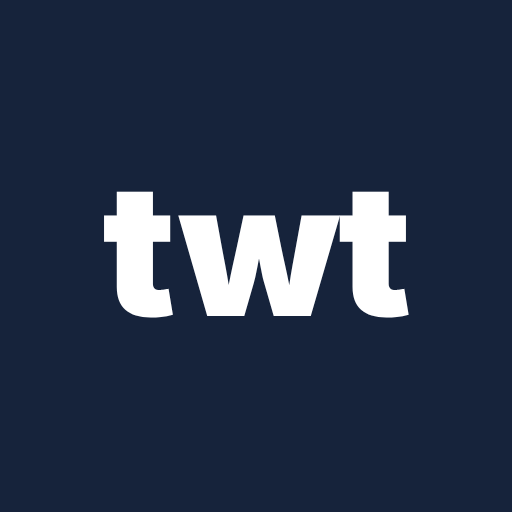
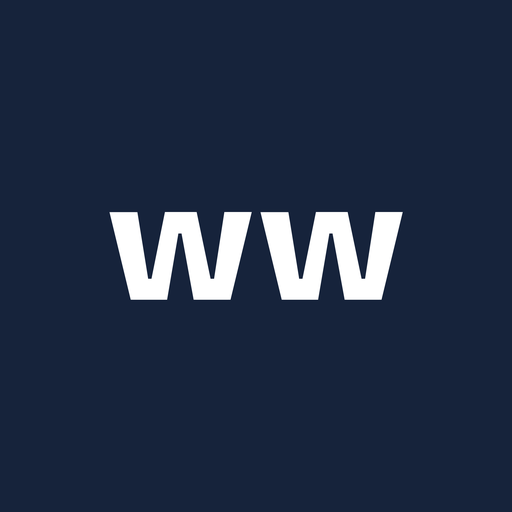
Add files via upload

Changed region(s): [[0.1875, 0.375, 0.8125, 0.625]]

diff --git a/build_site.py b/build_site.py
@@ -1,6 +1,6 @@
 #!/usr/bin/env python3
 """
-The Wednesday Times — site builder.
+Wednesday Wire — site builder.
 
 Renders articles.json + fixtures.json into index.html: a clean, fast,
 ad-free static page with light/dark mode, filters, search and the
@@ -34,9 +34,10 @@ HERE = Path(__file__).parent
 UK = ZoneInfo("Europe/London")
 URL_SAFE_CHARS = ":/?#[]@!$&'()*+,;=%~-._"   # everything else in a link gets %-encoded
 
-# Set this to your real URL once deployed (needed for social link previews
-# and the RSS feed) e.g. "https://yourusername.github.io/all-wednesday"
-SITE_URL = "https://thewednesdaytimes.uk"
+# The live address (used for social link previews, the RSS feed, the
+# sitemap and restore_state.py). thewednesdaytimes.uk 301-redirects here.
+SITE_URL = "https://wednesdaywire.co.uk"
+SITE_NAME = "Wednesday Wire"
 
 # Free, cookie-free analytics: https://www.goatcounter.com/ (no signup cost).
 # Sign up, then put your code here (the bit before ".goatcounter.com").
@@ -202,6 +203,7 @@ def write_atomic(path: Path, text: str) -> None:
 # =====================================================================
 
 FONTS_URL = ("https://fonts.googleapis.com/css2?family=Archivo:wdth,wght@62..125,400..900"
+             "&family=Bricolage+Grotesque:opsz,wght@12..96,800"
              "&family=IBM+Plex+Mono:wght@400;700&family=Newsreader:opsz,wght@6..72,600&display=swap")
 
 # Runs in <head> before first paint, so dark-mode readers never get a
@@ -223,6 +225,7 @@ BASE_CSS = """
     --sans: "Archivo", system-ui, -apple-system, "Segoe UI", sans-serif;
     --mono: "IBM Plex Mono", ui-monospace, SFMono-Regular, Menlo, Consolas, monospace;
     --serif: "Newsreader", Georgia, "Times New Roman", serif;
+    --brand: "Bricolage Grotesque", "Archivo", system-ui, -apple-system, "Segoe UI", sans-serif;
   }
   @media (prefers-color-scheme: dark) { :root:not([data-theme="light"]) {""" + THEME_TOKENS_DARK + """ } }
   [data-theme="dark"] {""" + THEME_TOKENS_DARK + """ }
@@ -246,11 +249,10 @@ PAGE_CSS = BASE_CSS + """
   .topbar-inner { max-width: 720px; margin: 0 auto; display: flex; align-items: center; gap: 4px; padding: 6px 8px 6px 16px; }
   .brand { flex: 1; min-width: 0; font-size: inherit; font-weight: inherit; }
   .brand a { display: flex; align-items: baseline; gap: 10px; text-decoration: none; min-width: 0; }
-  .brand-mark { font-family: var(--mono); font-weight: 700; font-size: 22px; letter-spacing: -.02em; line-height: 44px; }
-  .brand-name { font-family: var(--mono); font-size: 11.5px; letter-spacing: .04em; color: var(--muted); white-space: nowrap; overflow: hidden; text-overflow: ellipsis; min-width: 0; }
-  .iconbtn, .textbtn { height: 44px; background: none; border: none; color: var(--ink); cursor: pointer; border-radius: 8px; }
-  .iconbtn { width: 44px; display: flex; align-items: center; justify-content: center; }
-  .textbtn { padding: 0 10px; font-family: var(--mono); font-size: 13px; }
+  .brand-mark { font-family: var(--brand); font-weight: 800; font-size: 22px; letter-spacing: -.01em; line-height: 44px; white-space: nowrap; overflow: hidden; text-overflow: ellipsis; min-width: 0; }
+  .iconbtn { height: 44px; width: 44px; background: none; border: none; color: var(--ink); cursor: pointer; border-radius: 8px; display: flex; align-items: center; justify-content: center; }
+  /* theme button: moon in light mode (tap for dark), sun in dark mode (tap for light) */
+  [data-theme="dark"] .icon-moon, :root:not([data-theme="dark"]) .icon-sun { display: none; }
   .searchbar { max-width: 720px; margin: 0 auto; padding: 0 16px 10px; }
   #search { width: 100%; height: 44px; padding: 0 14px; font: 16px var(--sans); color: var(--ink); background: var(--bg); border: 1px solid var(--line); border-radius: 12px; }
   #search::placeholder { color: var(--muted); }
@@ -375,9 +377,10 @@ PAGE_JS = r"""
   // ---- theme (the starting theme is set in <head> before first paint) ----
   var toggle = $('theme-toggle');
   function themeLabel() {
-    var dark = root.getAttribute('data-theme') === 'dark';
-    toggle.textContent = dark ? 'light' : 'dark';
-    toggle.setAttribute('aria-label', dark ? 'Switch to light mode' : 'Switch to dark mode');
+    // the sun/moon icon swaps in CSS; only the accessible name changes here
+    var label = root.getAttribute('data-theme') === 'dark' ? 'Switch to light mode' : 'Switch to dark mode';
+    toggle.setAttribute('aria-label', label);
+    toggle.setAttribute('title', label);
   }
   themeLabel();
   toggle.addEventListener('click', function () {
@@ -647,6 +650,13 @@ SEARCH_ICON = ('<svg width="20" height="20" viewBox="0 0 24 24" fill="none" stro
                'stroke-width="2" stroke-linecap="round" stroke-linejoin="round" aria-hidden="true" focusable="false">'
                '<circle cx="11" cy="11" r="7"></circle><path d="m20 20-3.5-3.5"></path></svg>')
 
+_ICON_ATTRS = ('width="20" height="20" viewBox="0 0 24 24" fill="none" stroke="currentColor" '
+               'stroke-width="2" stroke-linecap="round" stroke-linejoin="round" aria-hidden="true" focusable="false"')
+THEME_ICONS = (f'<svg class="icon-moon" {_ICON_ATTRS}><path d="M21 12.8A9 9 0 1 1 11.2 3a7 7 0 0 0 9.8 9.8z"></path></svg>'
+               f'<svg class="icon-sun" {_ICON_ATTRS}><circle cx="12" cy="12" r="4"></circle>'
+               '<path d="M12 2v2M12 20v2M4.93 4.93l1.41 1.41M17.66 17.66l1.41 1.41M2 12h2M20 12h2'
+               'M4.93 19.07l1.41-1.41M17.66 6.34l1.41-1.41"></path></svg>')
+
 
 # =====================================================================
 # Rendering
@@ -811,8 +821,8 @@ def render_page(articles: list[dict], fixtures: dict, now: datetime) -> str:
     goat = (f'<script data-goatcounter="https://{esc(GOATCOUNTER_CODE)}.goatcounter.com/count" '
             f'async src="https://gc.zgo.at/count.js"></script>') if GOATCOUNTER_CODE else ""
     ld = js_str({
-        "@context": "https://schema.org", "@type": "WebSite", "name": "The Wednesday Times",
-        "alternateName": "TWT", "url": f"{SITE_URL}/",
+        "@context": "https://schema.org", "@type": "WebSite", "name": SITE_NAME,
+        "alternateName": "The Wednesday Times", "url": f"{SITE_URL}/",
         "description": "Sheffield Wednesday headlines from across the web in one clean, ad-free feed.",
         "inLanguage": "en-GB",
     })
@@ -837,21 +847,21 @@ def render_page(articles: list[dict], fixtures: dict, now: datetime) -> str:
 <meta charset="utf-8">
 <meta name="viewport" content="width=device-width, initial-scale=1">
 <meta http-equiv="Content-Security-Policy" content="{csp_attr(csp)}">
-<title>The Wednesday Times - Sheffield Wednesday news, no clutter</title>
+<title>{SITE_NAME} - Sheffield Wednesday news, no clutter</title>
 <meta name="description" content="Sheffield Wednesday headlines in one clean, ad-free feed. Links go straight to the original source.">
 <link rel="canonical" href="{SITE_URL}/">
-<meta property="og:site_name" content="The Wednesday Times">
-<meta property="og:title" content="The Wednesday Times - Owls headlines, no clutter">
+<meta property="og:site_name" content="{SITE_NAME}">
+<meta property="og:title" content="{SITE_NAME} - Owls headlines, no clutter">
 <meta property="og:description" content="Sheffield Wednesday news from multiple sources in one clean, ad-free feed. Free, updated every 15 minutes.">
 <meta property="og:type" content="website">
 <meta property="og:url" content="{SITE_URL}/">
 <meta property="og:image" content="{SITE_URL}/share.png">
-<meta property="og:image:alt" content="The Wednesday Times">
+<meta property="og:image:alt" content="{SITE_NAME}">
 <meta property="og:locale" content="en_GB">
 <meta name="twitter:card" content="summary_large_image">
 <meta name="theme-color" content="#FFFFFF" media="(prefers-color-scheme: light)">
 <meta name="theme-color" content="#171717" media="(prefers-color-scheme: dark)">
-<link rel="alternate" type="application/rss+xml" title="The Wednesday Times" href="{SITE_URL}/feed.xml">
+<link rel="alternate" type="application/rss+xml" title="{SITE_NAME}" href="{SITE_URL}/feed.xml">
 <link rel="icon" href="favicon.svg" type="image/svg+xml">
 <link rel="apple-touch-icon" href="apple-touch-icon.png">
 <link rel="manifest" href="manifest.webmanifest">
@@ -867,9 +877,9 @@ def render_page(articles: list[dict], fixtures: dict, now: datetime) -> str:
 <a class="skip" href="#feed">Skip to headlines</a>
 <header class="topbar">
   <div class="topbar-inner">
-    <h1 class="brand"><a href="/"><span class="brand-mark">twt</span> <span class="brand-name">the wednesday times</span></a></h1>
+    <h1 class="brand"><a href="/"><span class="brand-mark">{SITE_NAME}</span></a></h1>
     <button type="button" id="search-toggle" class="iconbtn" aria-label="Search headlines" aria-expanded="false" aria-controls="searchbar">{SEARCH_ICON}</button>
-    <button type="button" id="theme-toggle" class="textbtn" aria-label="Switch to dark mode">dark</button>
+    <button type="button" id="theme-toggle" class="iconbtn" aria-label="Switch to dark mode" title="Switch to dark mode">{THEME_ICONS}</button>
   </div>
   <div id="searchbar" class="searchbar" hidden>
     <label for="search" class="sr-only">Search headlines</label>
@@ -960,7 +970,7 @@ def render_status(status: dict, articles: list[dict], now: datetime) -> str:
 <meta name="viewport" content="width=device-width, initial-scale=1">
 <meta http-equiv="Content-Security-Policy" content="{csp_attr(csp)}">
 <meta name="robots" content="noindex">
-<title>Feed status - The Wednesday Times</title>
+<title>Feed status - {SITE_NAME}</title>
 <link rel="icon" href="favicon.svg" type="image/svg+xml">
 <style>{STATUS_CSS}</style>
 </head>
@@ -1001,7 +1011,7 @@ def render_feed_xml(articles: list[dict], now: datetime) -> str:
     return f"""<?xml version="1.0" encoding="UTF-8"?>
 <rss version="2.0" xmlns:atom="http://www.w3.org/2005/Atom">
 <channel>
-  <title>The Wednesday Times</title>
+  <title>{SITE_NAME}</title>
   <link>{SITE_URL}/</link>
   <atom:link href="{SITE_URL}/feed.xml" rel="self" type="application/rss+xml"/>
   <description>Sheffield Wednesday headlines in one clean feed. Links go to the original publishers.</description>
@@ -1026,8 +1036,8 @@ def render_sitemap(now: datetime) -> str:
 
 def render_manifest() -> str:
     return json.dumps({
-        "name": "The Wednesday Times",
-        "short_name": "TWT",
+        "name": SITE_NAME,
+        "short_name": "Wed Wire",
         "description": "Sheffield Wednesday headlines in one clean, ad-free feed.",
         "start_url": "/",
         "scope": "/",

diff --git a/fetch_fixtures.py b/fetch_fixtures.py
@@ -1,6 +1,6 @@
 #!/usr/bin/env python3
 """
-The Wednesday Times — fixtures, results and form.
+Wednesday Wire — fixtures, results and form.
 
 Source: the BBC's public scores & fixtures pages for the club, which work
 whatever division Wednesday are in. We parse the JSON the BBC embeds in
@@ -33,7 +33,7 @@ OUT = HERE / "fixtures.json"
 STATUS = HERE / "status.json"
 BBC_BASE = "https://www.bbc.co.uk/sport/football/teams/sheffield-wednesday/scores-fixtures"
 TEAM_MATCH = "sheffield wednesday"
-UA = {"User-Agent": "Mozilla/5.0 (compatible; TheWednesdayTimes/1.0; fixtures strip)"}
+UA = {"User-Agent": "Mozilla/5.0 (compatible; WednesdayWire/1.0; fixtures strip)"}
 FETCH_TIMEOUT = 20
 FETCH_DEADLINE = 40
 MAX_BYTES = 5_000_000
@@ -325,7 +325,7 @@ def update_status(info: dict) -> None:
 
 def warn(message: str) -> None:
     if os.environ.get("GITHUB_ACTIONS"):
-        print(f"::warning title=The Wednesday Times::{message}")
+        print(f"::warning title=Wednesday Wire::{message}")
     else:
         print(f"  [WARN] {message}")
 

diff --git a/fetch_news.py b/fetch_news.py
@@ -1,6 +1,6 @@
 #!/usr/bin/env python3
 """
-The Wednesday Times — feed fetcher.
+Wednesday Wire — feed fetcher.
 
 Pulls Sheffield Wednesday headlines from public RSS feeds, filters out the
 junk, dedupes, and writes articles.json for the site builder. Also writes
@@ -841,7 +841,7 @@ def warn(message: str) -> None:
     """A warning that shows up as a yellow annotation on the Actions run
     (and as plain text when run locally)."""
     if os.environ.get("GITHUB_ACTIONS"):
-        print(f"::warning title=The Wednesday Times::{message}")
+        print(f"::warning title=Wednesday Wire::{message}")
     else:
         print(f"  [WARN] {message}")
 

diff --git a/restore_state.py b/restore_state.py
@@ -1,6 +1,6 @@
 #!/usr/bin/env python3
 """
-The Wednesday Times — restore last run's data.
+Wednesday Wire — restore last run's data.
 
 Each GitHub Actions run starts from a fresh checkout of the repo, so the
 articles.json / descriptions.json / fixtures.json that the previous run
@@ -31,7 +31,7 @@ from build_site import SITE_URL
 HERE = Path(__file__).parent
 TIMEOUT = 15
 MAX_BYTES = 5_000_000
-UA = {"User-Agent": "TheWednesdayTimes-build/1.0 (+restore last run)"}
+UA = {"User-Agent": "WednesdayWire-build/1.0 (+restore last run)"}
 
 
 def _valid_articles(data) -> bool:

diff --git a/README.md b/README.md
@@ -1,7 +1,9 @@
-# The Wednesday Times
+# Wednesday Wire
 
 Every Sheffield Wednesday headline in one clean, fast, **ad-free** feed:
-https://thewednesdaytimes.uk
+https://wednesdaywire.co.uk
+
+(Formerly The Wednesday Times; thewednesdaytimes.uk redirects here.)
 
 Headlines and short excerpts only — every link goes to the original
 publisher, so their traffic and ad revenue stay theirs. Newest first,
